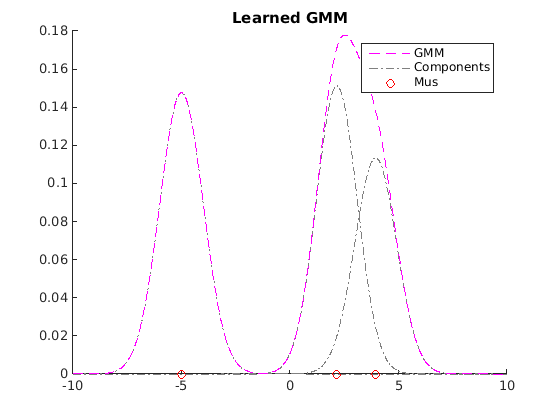
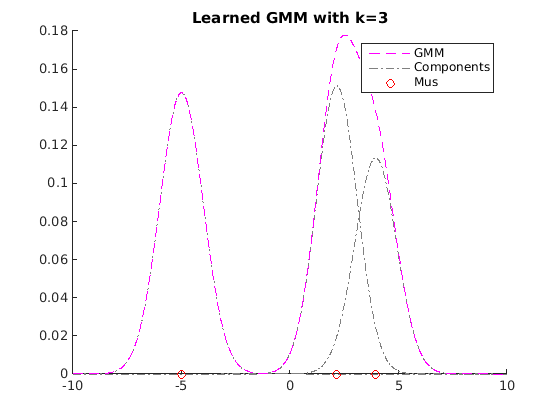
update github.io

Changed region(s): [[0.3339, 0.031, 0.6982, 0.0619]]

diff --git a/html/DEMO_MAIN_ICCV2015_KGMM_INTERPOLATION.html b/html/DEMO_MAIN_ICCV2015_KGMM_INTERPOLATION.html
@@ -66,7 +66,7 @@ table td { padding:7px 5px; text-align:left; vertical-align:top; border:1px soli
 
 
 
-  </style></head><body><div class="content"><h1>DEMO for Interpolation on the manifold of k-GMMs</h1><!--introduction--><p>Hyunwoo J. Kim, Nagesh Adluru, Monami Banerjee, Baba C. Vemuri, Vikas Singh, Interpolation on the manifold of k component Gaussian Mixture Models (GMMs), In International Conference on Computer Vision (ICCV), December 2015.</p><p><a href="http://pages.cs.wisc.edu/~hwkim/projects/k-gmm/">http://pages.cs.wisc.edu/~hwkim/projects/k-gmm/</a></p><!--/introduction--><h2>Contents</h2><div><ul><li><a href="#1">Generate random gmm distributions.</a></li><li><a href="#2">GMM parameterizations</a></li><li><a href="#3">Distance between GMMs</a></li><li><a href="#4">Gradient descent scheme for <img src="DEMO_MAIN_ICCV2015_KGMM_INTERPOLATION_eq11695167239558615666.png" alt="$l_2$">-distance</a></li><li><a href="#5">EM algorithm for KL-divergence or cross entory.</a></li><li><a href="#6">Modified EM (our restricted GPMM)</a></li></ul></div><h2>Generate random gmm distributions.<a name="1"></a></h2><pre class="codeinput">clear
+  </style></head><body><div class="content"><h1>DEMO for Interpolation on the manifold of k-GMMs</h1><!--introduction--><p>Hyunwoo J. Kim, Nagesh Adluru, Monami Banerjee, Baba C. Vemuri, Vikas Singh, Interpolation on the manifold of k component Gaussian Mixture Models (GMMs), In International Conference on Computer Vision (ICCV), December 2015.</p><p>Project page. <a href="http://pages.cs.wisc.edu/~hwkim/projects/k-gmm/">http://pages.cs.wisc.edu/~hwkim/projects/k-gmm/</a></p><p>Github repository <a href="http://github.com/MLman/kgmm_interpolation">http://github.com/MLman/kgmm_interpolation</a></p><p>Github page <a href="http://mlman.github.io/kgmm_interpolation/">http://mlman.github.io/kgmm_interpolation/</a></p><!--/introduction--><h2>Contents</h2><div><ul><li><a href="#1">Generate random gmm distributions.</a></li><li><a href="#2">GMM parameterizations</a></li><li><a href="#3">Distance between GMMs</a></li><li><a href="#4">Gradient descent scheme for <img src="DEMO_MAIN_ICCV2015_KGMM_INTERPOLATION_eq11695167239558615666.png" alt="$l_2$">-distance</a></li><li><a href="#5">EM algorithm for KL-divergence or cross entory.</a></li><li><a href="#6">Modified EM (our restricted GPMM)</a></li></ul></div><h2>Generate random gmm distributions.<a name="1"></a></h2><pre class="codeinput">clear
 rng <span class="string">default</span>
 addpath(genpath(<span class="string">'.'</span>))
 kcomp = 3;
@@ -112,12 +112,12 @@ tic
 toc
 figure
 myplotgmm1D(gmm0,[-10,10],[1,0,1],0.01);
-title(<span class="string">'Random Initialization kGMM'</span>);
+title(sprintf(<span class="string">'Random Initialization kGMM with k=%d'</span>,k));
 
 figure
 myplotgmm1D(kgmm,[-10,10],[1,0,1],0.01);
-title(<span class="string">'Learned GMM'</span>);
-</pre><pre class="codeoutput">Elapsed time is 0.731294 seconds.
+title(sprintf(<span class="string">'Learned GMM with k=%d'</span>, k));
+</pre><pre class="codeoutput">Elapsed time is 0.709698 seconds.
 </pre><img vspace="5" hspace="5" src="DEMO_MAIN_ICCV2015_KGMM_INTERPOLATION_01.png" alt=""> <img vspace="5" hspace="5" src="DEMO_MAIN_ICCV2015_KGMM_INTERPOLATION_02.png" alt=""> <img vspace="5" hspace="5" src="DEMO_MAIN_ICCV2015_KGMM_INTERPOLATION_03.png" alt=""> <h2>EM algorithm for KL-divergence or cross entory.<a name="5"></a></h2><p>Note that the proposed EM algorithms do not optimize L2 distance. But it returns a good solution w.r.t L2 distance too.</p><pre class="codeinput">option.maxiter = 100;
 [gmmbar_em, stats] = em_gmm_closest_full(gmml2mean, k, option)
 
@@ -197,7 +197,15 @@ L2 distance 0.022180, parameter change 3.913876e-06 tol 1.000000e-06
 % Interpolation on the manifold of k component Gaussian Mixture Models (GMMs),
 % In International Conference on Computer Vision (ICCV), December 2015. 
 %
+% Project page.
 % http://pages.cs.wisc.edu/~hwkim/projects/k-gmm/
+%
+% Github repository
+% http://github.com/MLman/kgmm_interpolation
+%
+% Github page
+% http://mlman.github.io/kgmm_interpolation/
+%
 
 %% Generate random gmm distributions.
 
@@ -254,11 +262,11 @@ tic
 toc
 figure
 myplotgmm1D(gmm0,[-10,10],[1,0,1],0.01);
-title('Random Initialization kGMM');
+title(sprintf('Random Initialization kGMM with k=%d',k));
 
 figure
 myplotgmm1D(kgmm,[-10,10],[1,0,1],0.01);
-title('Learned GMM');
+title(sprintf('Learned GMM with k=%d', k));
 
 %% EM algorithm for KL-divergence or cross entory.
 % Note that the proposed EM algorithms do not optimize L2 distance.

diff --git a/DEMO_MAIN_ICCV2015_KGMM_INTERPOLATION.m b/DEMO_MAIN_ICCV2015_KGMM_INTERPOLATION.m
@@ -7,10 +7,10 @@
 % http://pages.cs.wisc.edu/~hwkim/projects/k-gmm/
 %
 % Github repository
-%
+% http://github.com/MLman/kgmm_interpolation
 %
 % Github page
-%
+% http://mlman.github.io/kgmm_interpolation/
 %
 
 %% Generate random gmm distributions.
@@ -68,11 +68,11 @@ tic
 toc
 figure
 myplotgmm1D(gmm0,[-10,10],[1,0,1],0.01);
-title('Random Initialization kGMM');
+title(sprintf('Random Initialization kGMM with k=%d',k));
 
 figure
 myplotgmm1D(kgmm,[-10,10],[1,0,1],0.01);
-title('Learned GMM');
+title(sprintf('Learned GMM with k=%d', k));
 
 %% EM algorithm for KL-divergence or cross entory.
 % Note that the proposed EM algorithms do not optimize L2 distance.
